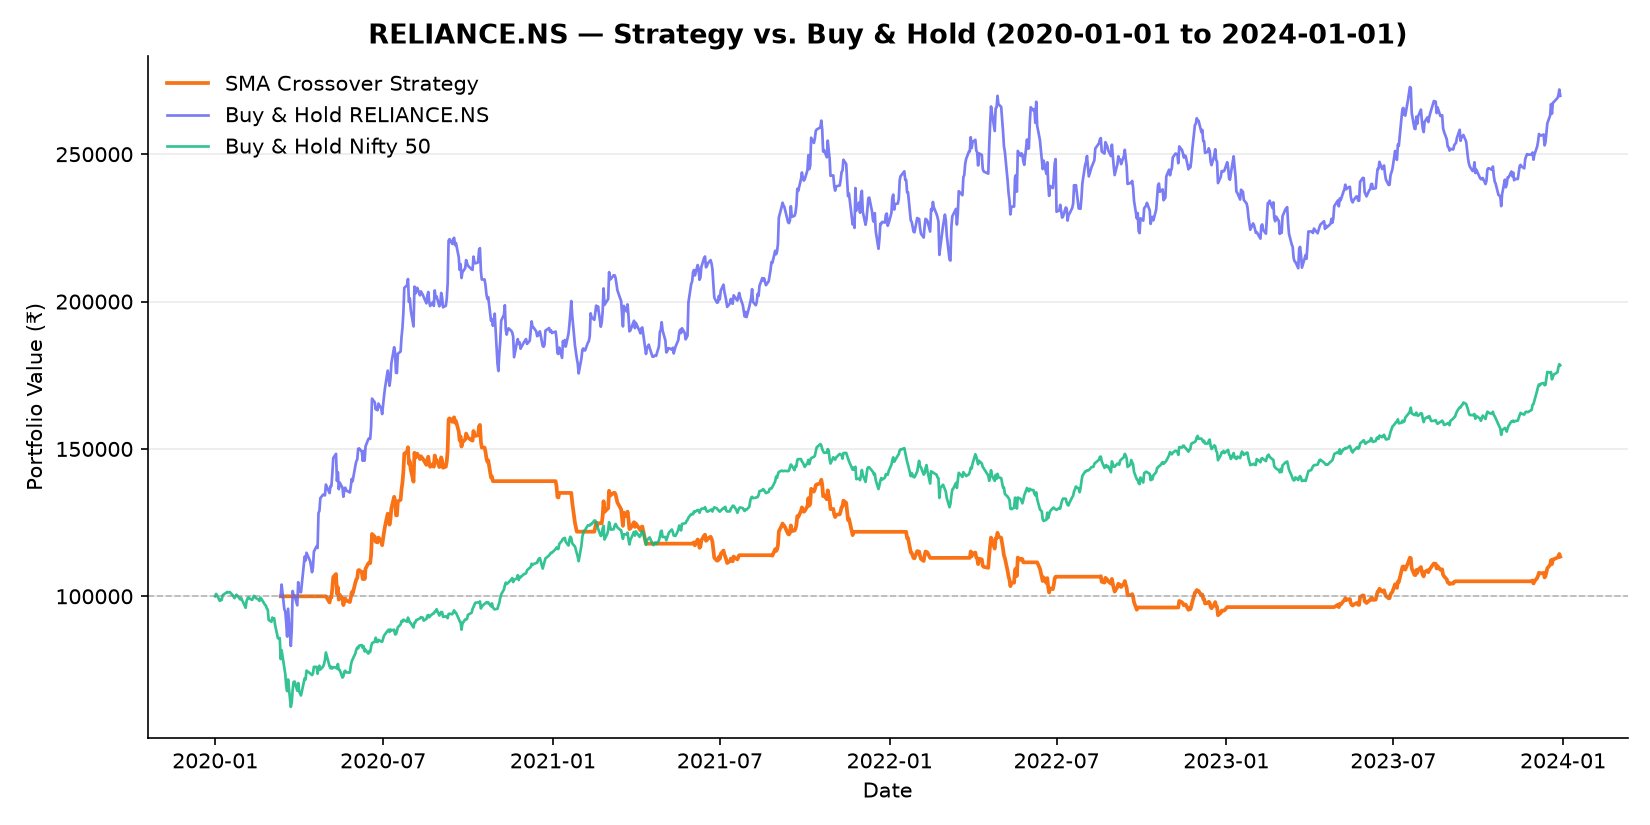
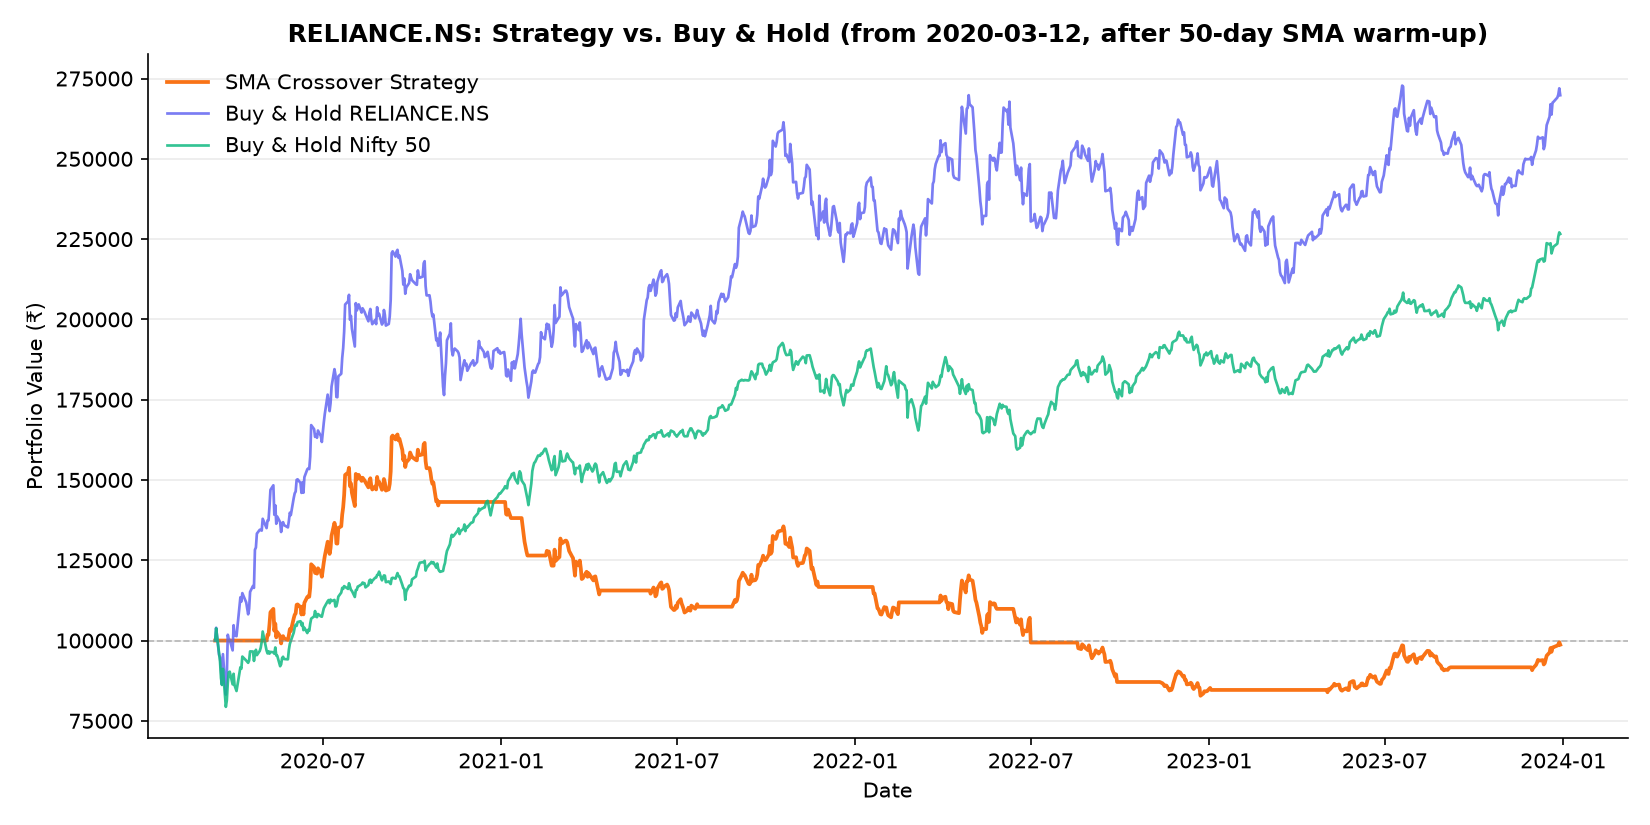
Update README with corrected results, common benchmark start, and execution-timing notes

diff --git a/notebooks/plot_equity.py b/notebooks/plot_equity.py
@@ -1,0 +1,59 @@
+# notebooks/plot_equity_curve.py
+"""
+Generates the equity curve chart: strategy vs. buy-and-hold vs. Nifty 50.
+Run this after your existing test.py pipeline (fetch -> signals -> backtest).
+Saves the chart to docs/equity_curve.png for the README.
+"""
+import sys
+import os
+import matplotlib.pyplot as plt
+
+sys.path.append(os.path.join(os.path.dirname(__file__), ".."))
+from src.fetch_data import fetch_data
+from src.strategy import generate_signals
+from src.backtest import run_backtest
+
+TICKER = "RELIANCE.NS"
+BENCHMARK_TICKER = "^NSEI"
+START_DATE = "2020-01-01"
+END_DATE = "2024-01-01"
+INITIAL_CAPITAL = 100000
+
+df = fetch_data(TICKER, START_DATE, END_DATE)
+benchmark_df = fetch_data(BENCHMARK_TICKER, START_DATE, END_DATE)
+
+df_signals = generate_signals(df.copy(), verbose=False)
+df_signals = df_signals.dropna(subset=['SMA_long'])
+backtest_results = run_backtest(df_signals)
+
+# Normalise buy-and-hold series to the same starting capital, for a fair visual comparison
+stock_bh = INITIAL_CAPITAL * (backtest_results['Adj Close'] / backtest_results['Adj Close'].iloc[0])
+# Start Nifty on the same day as the backtest, so all three lines are comparable
+bench = benchmark_df.loc[backtest_results.index[0]:]
+nifty_bh = INITIAL_CAPITAL * (bench['Adj Close'] / bench['Adj Close'].iloc[0])
+
+fig, ax = plt.subplots(figsize=(11, 5.5))
+
+ax.plot(backtest_results.index, backtest_results['equity_curve'], label='SMA Crossover Strategy', color='#f97316', linewidth=1.8)
+ax.plot(backtest_results.index, stock_bh, label=f'Buy & Hold {TICKER}', color='#6366f1', linewidth=1.3, alpha=0.85)
+ax.plot(nifty_bh.index, nifty_bh, label='Buy & Hold Nifty 50', color='#10b981', linewidth=1.3, alpha=0.85)
+
+ax.axhline(INITIAL_CAPITAL, color='gray', linewidth=0.8, linestyle='--', alpha=0.5)
+
+start_label = backtest_results.index[0].strftime('%Y-%m-%d')
+ax.set_title(f'{TICKER}: Strategy vs. Buy & Hold (from {start_label}, after 50-day SMA warm-up)',fontsize=12, fontweight='bold')
+ax.set_xlabel('Date')
+ax.set_ylabel('Portfolio Value (₹)')
+ax.legend(loc='upper left', frameon=False)
+ax.spines['top'].set_visible(False)
+ax.spines['right'].set_visible(False)
+ax.grid(axis='y', alpha=0.25)
+
+plt.tight_layout()
+
+os.makedirs(os.path.join(os.path.dirname(__file__), "..", "docs"), exist_ok=True)
+save_path = os.path.join(os.path.dirname(__file__), "..", "docs", "equity_curve.png")
+plt.savefig(save_path, dpi=150)
+print(f"Saved chart to {save_path}")
+
+plt.show()

diff --git a/src/fetch_data.py b/src/fetch_data.py
@@ -1,9 +1,25 @@
+"""Fetch OHLCV data from Yahoo Finance, with a local CSV cache."""
+import os
+import pandas as pd
 import yfinance as yf
-from pathlib import Path
 
-"""fetching data from yahoo finance and saving it to csv file while also checking for missing values in the data"""
-def fetch_data(ticker, start_date, end_date):
-    '''checks for error during data fetching'''
+# Absolute path to <repo>/data, independent of where the script is run from
+DATA_DIR = os.path.join(os.path.dirname(os.path.abspath(__file__)), "..", "data")
+
+
+def fetch_data(ticker, start_date, end_date, use_cache=True, data_dir=DATA_DIR):
+    """
+    Return a clean OHLCV DataFrame for one ticker, or None on failure.
+
+    If a cached CSV for this exact (ticker, start, end) exists and use_cache
+    is True, it is loaded instead of hitting the network. Pass use_cache=False
+    to force a fresh download (which also overwrites the cache file).
+    """
+    cache_path = os.path.join(data_dir, f"{ticker}_{start_date}_{end_date}.csv")
+
+    if use_cache and os.path.exists(cache_path):
+        return pd.read_csv(cache_path, index_col=0, parse_dates=True)
+
     try:
         df = yf.download(ticker, start=start_date, end=end_date, auto_adjust=False)
     except Exception as e:
@@ -16,18 +32,16 @@ def fetch_data(ticker, start_date, end_date):
 
     df.columns = df.columns.get_level_values(0)
 
-    data_dir = Path(__file__).resolve().parent.parent / "data"
-    data_dir.mkdir(exist_ok=True)
-    df.to_csv(data_dir / f"{ticker}_{start_date}_{end_date}.csv")
-
+    os.makedirs(data_dir, exist_ok=True)
+    df.to_csv(cache_path)
     return df
 
 
-"""fetching data for multiple tickers using fetch_data function"""
-def fetch_multiple(tickers, start_date, end_date):
+def fetch_multiple(tickers, start_date, end_date, use_cache=True):
+    """Fetch several tickers. Returns {ticker: DataFrame}, skipping failures."""
     data = {}
     for ticker in tickers:
-        df = fetch_data(ticker, start_date, end_date)
+        df = fetch_data(ticker, start_date, end_date, use_cache=use_cache)
         if df is not None:
             data[ticker] = df
     return data

diff --git a/notebooks/test.py b/notebooks/test.py
@@ -38,7 +38,9 @@ else:
     info_ratio = information_ratio(backtest_results['strategy_return'], benchmark_df['daily_return'])
     buy_hold_return = (backtest_results['Adj Close'].iloc[-1] / backtest_results['Adj Close'].iloc[0]) - 1
     strategy_total_return = (backtest_results['equity_curve'].iloc[-1] / backtest_results['equity_curve'].iloc[0]) - 1
-    nifty_return = (benchmark_df['Adj Close'].iloc[-1] / benchmark_df['Adj Close'].iloc[0]) - 1
+    # Measure Nifty from the same start day as the backtest, so the comparison is fair
+    bench = benchmark_df.loc[backtest_results.index[0]:]
+    nifty_return = (bench['Adj Close'].iloc[-1] / bench['Adj Close'].iloc[0]) - 1
 
     print(f"--- {TICKER} | {START_DATE} to {END_DATE} ---")
     print(f"Strategy CAGR:            {strategy_cagr:.2%}")

diff --git a/README.md b/README.md
@@ -1,8 +1,10 @@
 # Backtesting Engine
 
-A Python backtesting engine for a moving-average crossover strategy on Indian equities, built from scratch i.e. data pipeline, signal generation, position simulation, and performance analytics, benchmarked against the Nifty 50.
+![tests](https://github.com/AnanshSrivastava/backtesting-engine/actions/workflows/tests.yml/badge.svg)
 
-This project isn't just "does it run". It's built around getting the mechanics *correct*: no lookahead bias, adjusted prices, and honest performance reporting including where the strategy fails.
+A Python backtesting engine for a moving-average crossover strategy on Indian equities, built from scratch: data pipeline, signal generation, position simulation, and performance analytics, compared against Nifty 50 and buy-and-hold.
+
+The focus is on getting the mechanics right (no lookahead, adjusted prices, explicit execution timing, unit-tested core logic) and reporting results honestly, including where the strategy fails and where earlier numbers were wrong.
 
 ![Pipeline diagram](docs/pipeline_diagram.svg)
 
@@ -10,54 +12,78 @@ This project isn't just "does it run". It's built around getting the mechanics *
 
 ```
 backtesting-engine/
-├── data/                   # cached OHLCV pulls (gitignored)
-├── docs/                   # diagrams / images used in this README
+├── .github/workflows/tests.yml   # CI: runs pytest on every push
+├── data/                         # cached OHLCV downloads (gitignored)
+├── docs/                         # diagrams and charts used in this README
 ├── notebooks/
-│   └── test.py             # orchestrates the full pipeline end-to-end
-├── tests/
-│   └── test_backtest_timing.py # checks signal-to-return timing
+│   └── test.py                   # runs the full pipeline end to end
 ├── src/
-│   ├── fetch_data.py       # yfinance data fetching + cleaning
-│   ├── strategy.py         # SMA crossover signal generation
-│   ├── backtest.py         # signal → position → equity curve
-│   └── metrics.py          # Sharpe, Information Ratio, CAGR, max drawdown
+│   ├── fetch_data.py             # yfinance download, cleaning, CSV cache
+│   ├── strategy.py               # SMA crossover signal generation
+│   ├── backtest.py               # signal -> position -> equity curve
+│   └── metrics.py                # Sharpe, Information Ratio, CAGR, max drawdown
+├── tests/                        # pytest suite
+├── pytest.ini
 ├── requirements.txt
 └── README.md
 ```
 
 ## Pipeline
 
-1. **`fetch_data.py`** : pulls OHLCV data via `yfinance`, flattens the MultiIndex column structure, and saves each pull to `data/*.csv`. It currently downloads again on each run; reading from the saved files as a cache is not implemented yet. Uses `Adj Close` for signals and returns.
-2. **`strategy.py`** : computes a 20-day and 50-day SMA and flags the exact day the short SMA crosses the long SMA (`signal = 1` on a golden cross, `-1` on a death cross), not just "which SMA is currently on top."
-3. **`backtest.py`** : converts sparse crossover signals into a continuous long-or-flat position. A signal is known only after that day's close. The current simulation assumes the order fills at the following session's close; it starts earning close-to-close returns after that assumed fill. Returns compound into an equity curve via `.cumprod()`.
-4. **`metrics.py`** : computes annualised Sharpe ratio using a fixed risk-free rate, Information Ratio against benchmark returns, CAGR, and maximum drawdown.
+1. **`fetch_data.py`** downloads OHLCV data with `yfinance`, flattens the MultiIndex columns, and checks for empty results. Each (ticker, start, end) download is cached to `data/` and reused on later runs; pass `use_cache=False` to force a fresh download. All calculations use `Adj Close` so splits and dividends do not create fake price jumps.
+2. **`strategy.py`** computes a 20-day and a 50-day SMA and flags the exact day the short SMA crosses the long one (`+1` golden cross, `-1` death cross), using a `.diff()` on the above/below state rather than the state itself.
+3. **`backtest.py`** turns the sparse crossover signals into a continuous holding/flat position, delays it so trades execute at the following session's close, applies the daily returns, and compounds them into an equity curve.
+4. **`metrics.py`** computes annualised Sharpe ratio (against a risk-free rate), Information Ratio (against Nifty 50), CAGR, and maximum drawdown.
 
-## Key Design Decisions
+## Execution Timing
 
-- **Signal timing.** Crossover signals use closing prices and are known only after the close. The simulator assumes execution at the next session's close and delays credited returns until after that fill. `tests/test_backtest_timing.py` uses large synthetic price jumps around buy/sell signals to check that the strategy does not earn a return before its assumed fill. This is a simplified daily-bar execution convention; it does not model intraday fills.
-- **Adjusted close, not raw close.** Raw `Close` shows fake price cliffs around stock splits/dividends, which would generate false signals. `Adj Close` is used for all signal and return calculations.
-- **Distinct risk metrics.** Sharpe compares strategy returns with a risk-free rate. Information Ratio compares strategy returns with Nifty 50 (`^NSEI`) returns. They answer different questions and are reported separately.
+A crossover is only known at the close of day T. The backtest therefore enters the position at the **close of the following session (T+1)** and earns returns from there. This is one day more conservative than the common vectorised shortcut of shifting by one bar, which implicitly assumes a fill at the same close that produced the signal.
 
-## Previous Results (Preliminary; Re-run Required)
+The choice matters a lot for this strategy (see Results), so it is pinned by unit tests: the tests fail if the delay is changed to 0 or 1.
 
-The values below are retained from a previous run of the backtester, before the execution-timing correction described above. They do not include transaction costs or slippage and should not be treated as validated results for the current code. The source and settings for the two rows labeled `(a)` and `(b)` were not recorded, so those figures are not reproducible from the README alone. Re-run all windows with the current timing convention and record the exact metric definitions and assumptions before drawing conclusions.
+## Testing and CI
 
-The prior run reported these figures for RELIANCE.NS:
+```bash
+python -m pytest -q
+```
 
-| Window | Strategy Return | Nifty 50 Return | Sharpe | Notes |
+The suite covers the execution-delay logic on a hand-built frame, known-answer checks for drawdown and CAGR, Sharpe and Information Ratio behaviour (including date alignment), and the data cache (using a fake downloader, so no network is needed). GitHub Actions runs the same tests on every push.
+
+## Results: RELIANCE.NS, SMA 20/50, 2020 to 2024
+
+No transaction costs or slippage are modelled yet, so every figure below is gross and preliminary.
+
+| Metric | Strategy (fills next close, current) | Strategy (fills signal-day close, earlier version) | Buy and hold RELIANCE.NS | Buy and hold Nifty 50 |
 |---|---|---|---|---|
-| 2020–2024 | 13.45% | 78.38% | -0.74 | Includes COVID crash + choppy 2021-22 |
-| 2022–2024 | 0.38% | 23.29% | -0.98 | Sideways/choppy, worst regime for this strategy |
-| 2018–2022 (a) | 73.79% | 66.19% | +0.06 | Outperformed, but Sharpe barely positive |
-| 2018–2022 (b) | 40.88% | 16.53% | +0.65 | Clear outperformance, strongest Sharpe |
+| Total return | -1.30% | 13.45% | 169.80% | 126.60% |
+| CAGR | -0.34% | 3.38% | not computed | not computed |
+| Max drawdown | -49.56% | -41.78% | -21.68% | not computed |
+| Sharpe (risk-free 6%) | -0.2281 | -0.0430 | not computed | not computed |
+| Information Ratio vs Nifty 50 | -0.8859 | -0.7407 | not computed | not computed |
+
+All columns start on 2020-03-12, the first day after the 50-day SMA warm-up, so the comparison is like for like. The earlier-version column was computed with the same start for the strategy and the stock.
+
+What the verified numbers say:
+
+- Over this window the strategy roughly broke even, while buy-and-hold RELIANCE.NS returned 169.80% and Nifty 50 returned 126.60%.
+- **The result is highly sensitive to fill timing.** Delaying execution by one extra day moved total return from 13.45% to -1.30%. For a lagging crossover strategy that fragility is itself a finding, and it means single-run numbers should not be trusted without a confidence interval (planned below).
+- A likely driver of the large drawdown is whipsaw: after a strong trend ends, repeated small crossovers produce a string of small losing trades. This explanation is a hypothesis. The peak and trough dates are being re-traced under the current execution timing.
 
 ![Equity Curve](docs/equity_curve.png)
 
-**Max drawdown (2020–2024 window): -41.78%** vs. **-21.68%** for buy-and-hold RELIANCE.NS.
+### Evaluation notes
 
-The previous analysis attributed the reported drawdown to repeated whipsaws during sideways consolidation. That explanation, like the figures above, needs to be rechecked after rerunning the backtest with corrected timing and transaction costs.
+- The strategy and the buy-and-hold figures start on the first day after the 50-day SMA warm-up (2020-03-12), so buy-and-hold max drawdown excludes the February to March 2020 crash.
+- An earlier version of this README quoted a Nifty 50 return of 78.38%. That was measured from 2020-01-02, before the strategy's start date, so it understated the benchmark. The 126.60% above uses the same start as the backtest.
+- Results for other windows (2022 to 2024 and two 2018 windows) came from earlier versions of the code and have been withdrawn until re-run.
+- The risk-free rate is a fixed 6% approximation, not historical government bond yields.
 
-**Working hypothesis:** trend-following strategies can enter trends late and lose through repeated whipsaws in sideways markets. Whether that explains this strategy's current results remains to be verified.
+### Corrections log
+
+- An earlier version labelled the benchmark-relative ratio as "Sharpe". It is the Information Ratio. Both are now reported separately.
+- An earlier version filled trades at the signal-day close. Execution is now at the following session's close, which changed the 2020 to 2024 total return from 13.45% to -1.30%.
+- An earlier version compared the strategy against a Nifty return measured from a different start date. All columns now share one start date.
+- An early run had a leading NaN that propagated through the compounded equity curve. It is fixed and covered by a test.
 
 ## Setup
 
@@ -78,23 +104,15 @@ pip install -r requirements.txt
 python notebooks/test.py
 ```
 
-This fetches data for the configured ticker and benchmark, runs the crossover strategy, simulates the backtest, and prints CAGR, Sharpe Ratio, Information Ratio, drawdown, and total returns. Data is currently downloaded on each run.
+This fetches the stock and benchmark, runs the crossover strategy, simulates the backtest, and prints CAGR, Sharpe, Information Ratio, and max drawdown against buy-and-hold.
 
-## Tests
+## Limitations and Roadmap
 
-The timing tests use synthetic prices so no network data is needed. Install `pytest` in the environment, then run:
-
-```bash
-python -m pytest
-```
-
-## Limitations & Next Steps
-
-- Transaction costs and slippage are not modeled yet; current results are pre-cost.
-- Single-asset, long-only. No portfolio-level allocation across multiple tickers.
-- Considering a second-indicator confirmation filter (e.g. RSI) to reduce whipsaw frequency in choppy regimes — not yet implemented, and not guaranteed to help, since whipsaw risk is a fairly fundamental property of trend-following in sideways markets.
-- Risk-free rate is currently a fixed approximation rather than actual historical G-Sec yields.
+- No transaction costs or slippage yet. Adding them is the next step, since gross results flatter every strategy.
+- Single asset, long-only, one fixed parameter set (20/50).
+- Planned: block-bootstrap confidence interval on Sharpe, plus ADF and autocorrelation checks on returns.
+- Planned: a walk-forward logistic-regression strategy compared against SMA and buy-and-hold after costs, with every variant tested counted and reported.
 
 ## Tech
 
-Python, pandas, NumPy, yfinance, matplotlib
+Python, pandas, NumPy, yfinance, matplotlib, pytest, GitHub Actions
